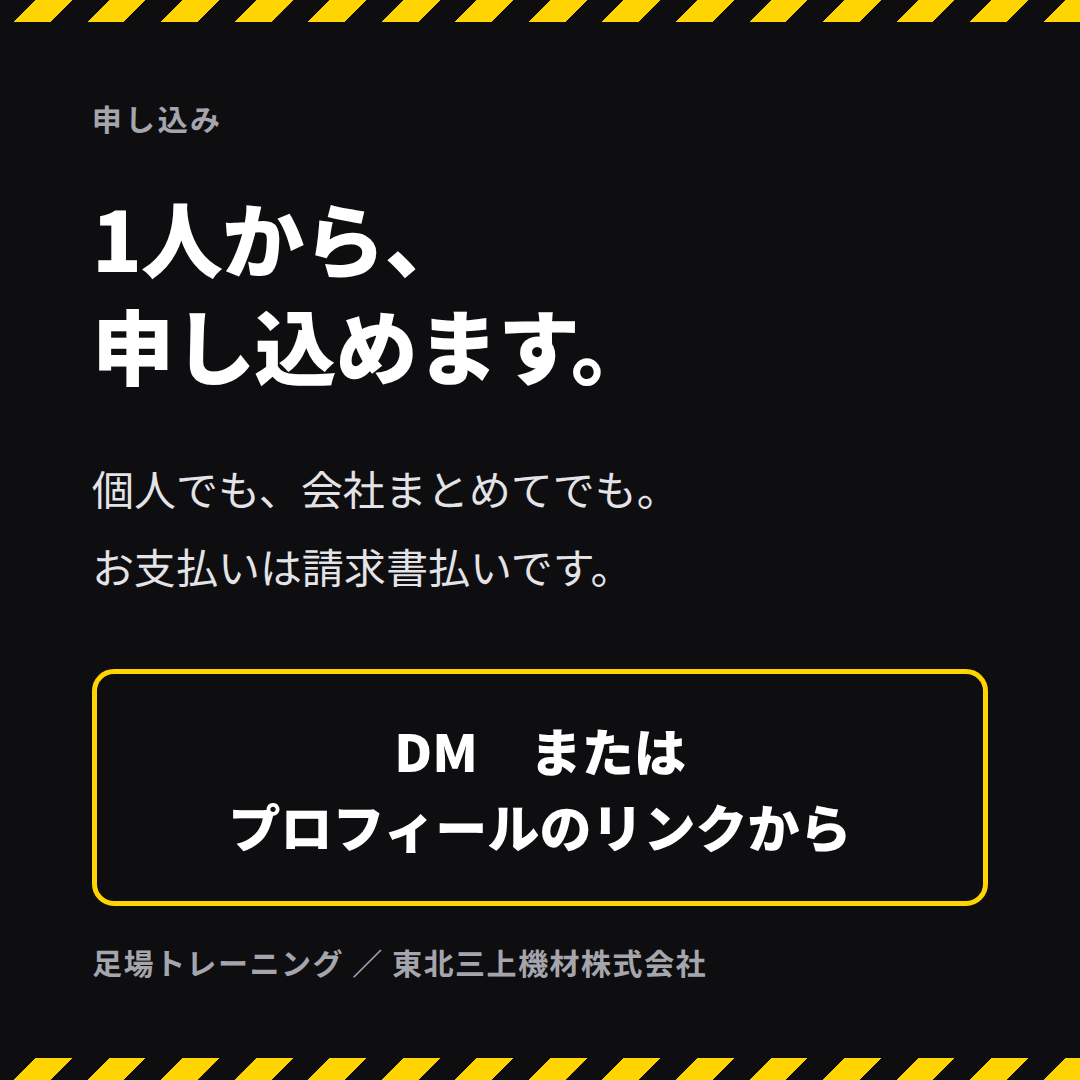
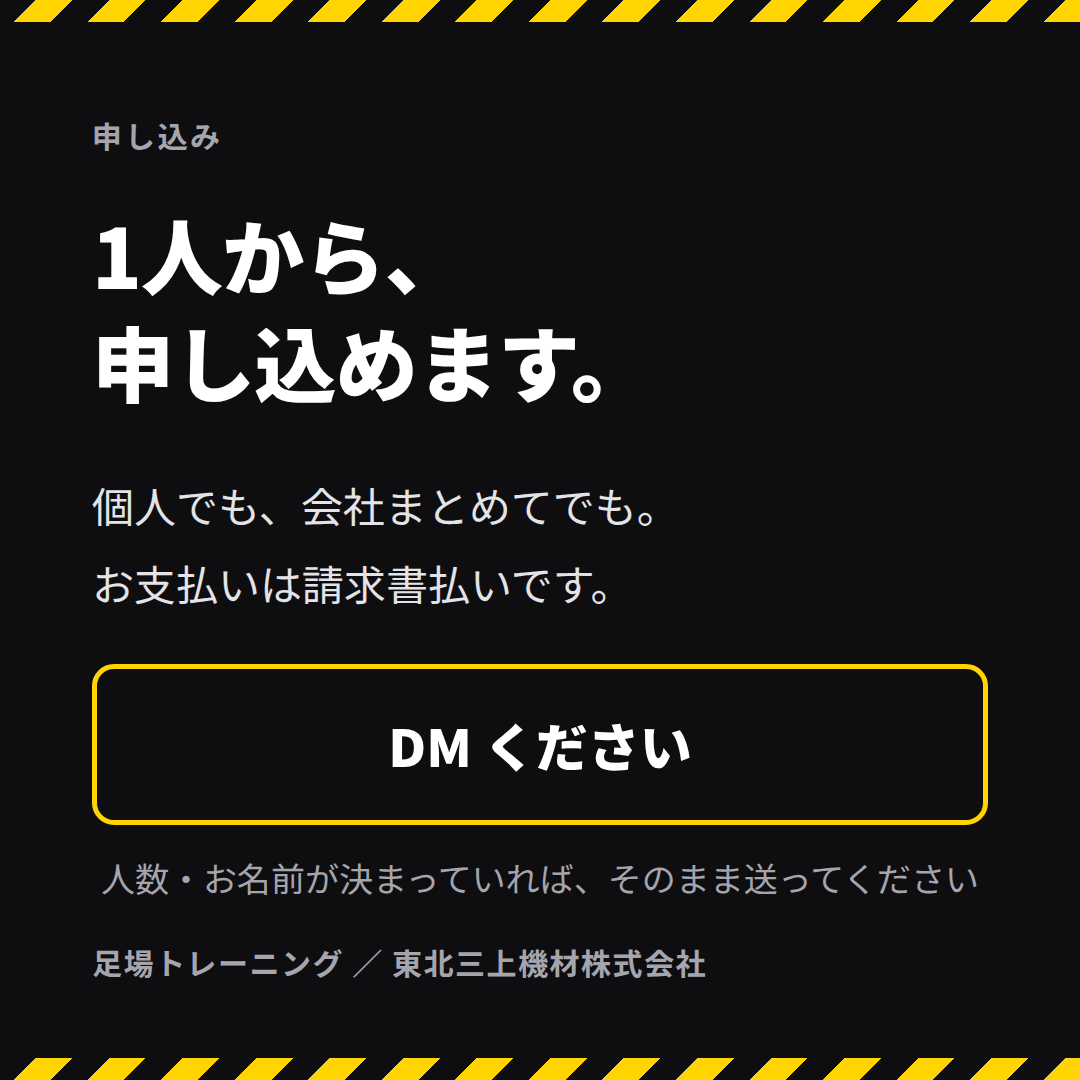
カルーセル6枚目をDM誘導に差し替え（プロフィールのリンクが未設定のため）
Claude-Session: https://claude.ai/code/session_015KmNeCM5yLgLjyWa5f6ifA

diff --git a/docs/instagram/tokubetsu.html b/docs/instagram/tokubetsu.html
@@ -105,14 +105,17 @@
 <!-- 6 -->
 <div class="s" id="p6">
   <div class="stripe t"></div>
+  <div class="sp2"></div>
   <div class="kicker gray">申し込み</div>
   <div style="height:44px"></div>
   <h2>1人から、<br>申し込めます。</h2>
   <div style="height:52px"></div>
   <p>個人でも、会社まとめてでも。<br>お支払いは請求書払いです。</p>
   <div class="sp"></div>
-  <div class="box">DM　または<br>プロフィールのリンクから</div>
-  <div style="height:34px"></div>
+  <div class="box">DM ください</div>
+  <div style="height:22px"></div>
+  <p style="font-size:34px;color:#a5a5ad;text-align:center">人数・お名前が決まっていれば、そのまま送ってください</p>
+  <div style="height:30px"></div>
   <div class="foot">足場トレーニング ／ 東北三上機材株式会社</div>
   <div class="stripe b"></div>
 </div>
